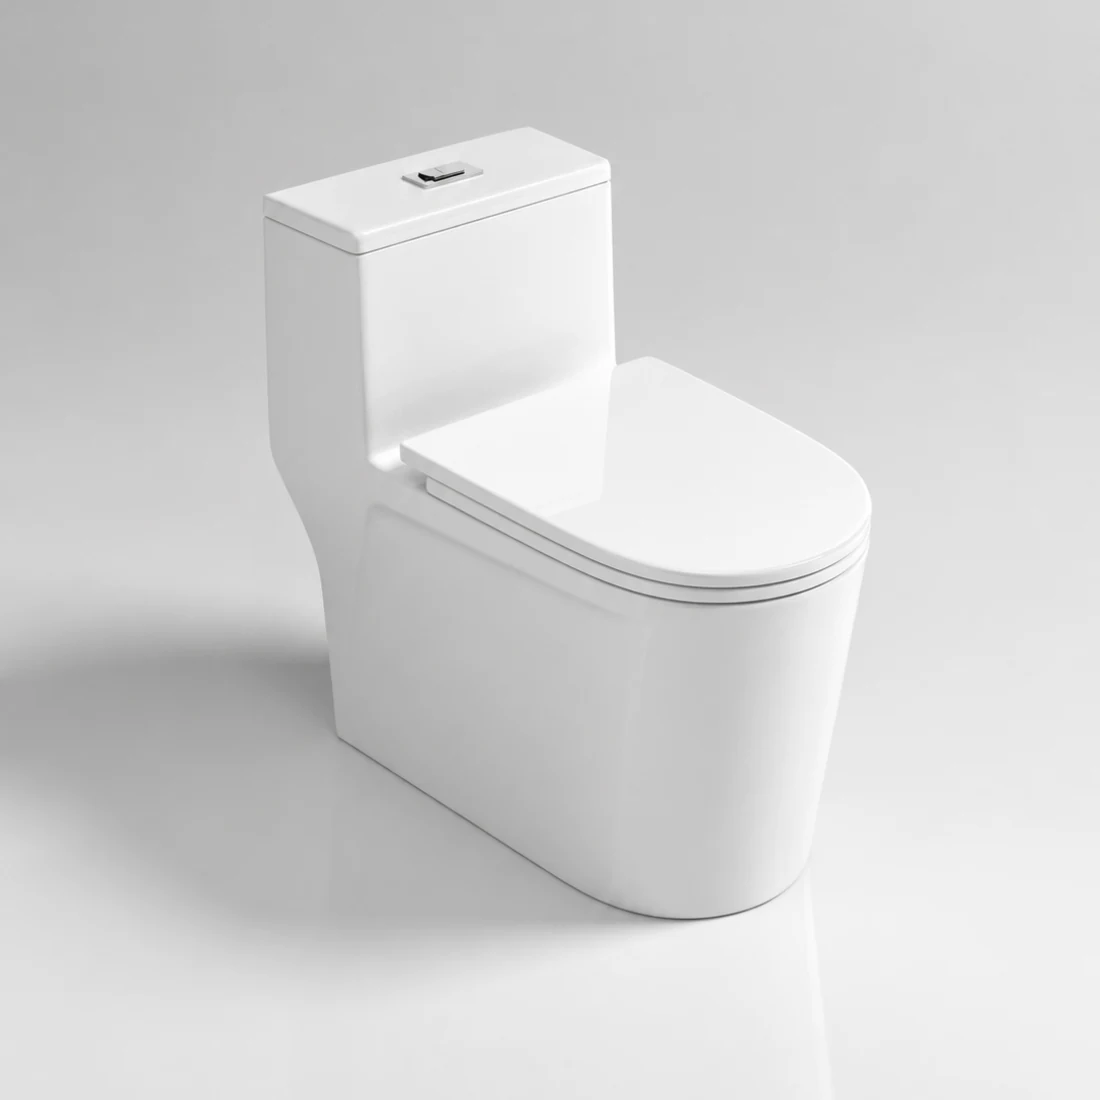
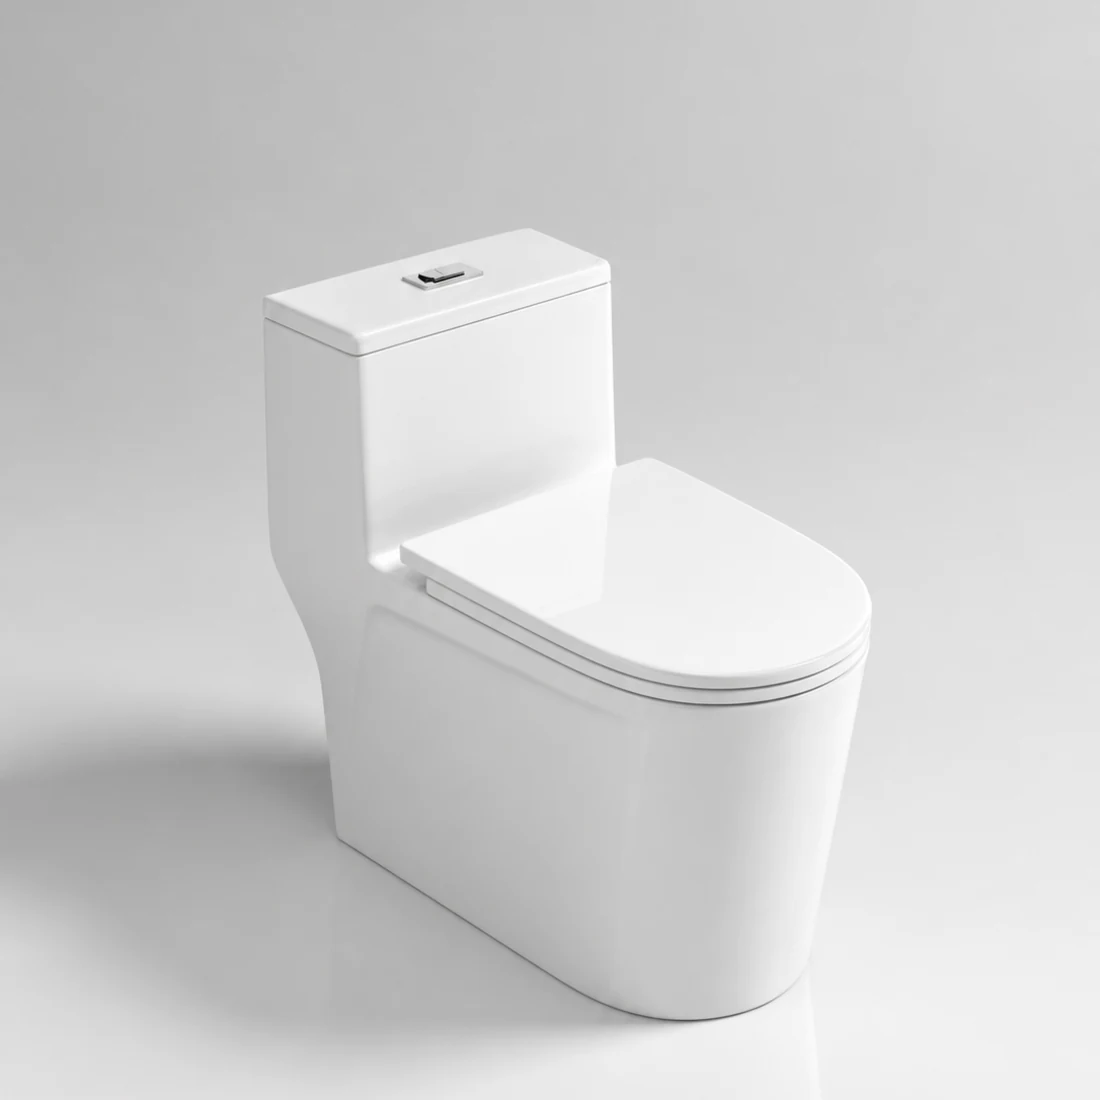
T201 card: more breathing room above (crop y=80)

diff --git a/products/index.html b/products/index.html
@@ -117,7 +117,7 @@ const CATS = {
     items:[{code:'PB101',name:'Classic Pillar',dims:'560 × 460 × 850',sub:'floor'},{code:'PB108',name:'Slim Column',dims:'520 × 440 × 840',sub:'floor'},{code:'PB115',name:'Atelier',dims:'600 × 480 × 850',sub:'floor'},{code:'PB122',name:'Forma',dims:'550 × 450 × 845',sub:'floor'},{code:'PB130',name:'Lirio',dims:'580 × 460 × 850',sub:'floor'},{code:'PB144',name:'Toro',dims:'610 × 470 × 855',sub:'floor'},{code:'PB158',name:'Mira Column',dims:'590 × 460 × 850',sub:'floor'},{code:'WB101',name:'Float Wall',dims:'500 × 420',sub:'wall'},{code:'WB103',name:'Linea Wall',dims:'550 × 440',sub:'wall'},{code:'WB105',name:'Plate Wall',dims:'600 × 460',sub:'wall'},{code:'WB107',name:'Edge Wall',dims:'480 × 380',sub:'wall'},{code:'WB108',name:'Crest Wall',dims:'520 × 400',sub:'wall'}]},
   standard: { title:'Toilet.', sub:['15 models · One-piece','Floor-mount · Dual flush','Antibacterial glaze · Soft-close seat'], icon:'toilet',
     tabs:[{id:'all',label:'All',count:15},{id:'open',label:'Open tank',count:12},{id:'concealed',label:'Concealed cistern',count:3}],
-    items:[{code:"T201",name:"T201 · Cascade siphon · curved one-piece",dims:"690 × 375 × 660 mm",sub:"open",img:'/assets/products/' + "T201" + '/card.webp?v=5'},{code:"T202",name:"T202 · Cascade vortex · narrow footprint",dims:"680 × 360 × 700 mm",sub:"open",img:'/assets/products/' + "T202" + '/card.webp'},{code:"T203",name:"T203 · Rimless · fully glazed bowl",dims:"660 × 370 × 700 mm",sub:"open",img:'/assets/products/' + "T203" + '/card.webp'},{code:"T204",name:"T204 · Concealed cistern · 650 mm low silhouette",dims:"700 × 365 × 650 mm",sub:"concealed",img:'/assets/products/' + "T204" + '/card.webp'},{code:"T205",name:"T205 · Concealed cistern · soft-shoulder body",dims:"700 × 365 × 650 mm",sub:"concealed",img:'/assets/products/' + "T205" + '/card.webp'},{code:"T206",name:"T206 · Concealed cistern · squared shoulder",dims:"680 × 370 × 700 mm",sub:"concealed",img:'/assets/products/' + "T206" + '/card.webp'},{code:"T207",name:"T207 · Sculpted body · 430 mm seat width",dims:"680 × 430 × 680 mm",sub:"open",img:'/assets/products/' + "T207" + '/card.webp'},{code:"T208",name:"T208 · Soft-square one-piece",dims:"700 × 370 × 720 mm",sub:"open",img:'/assets/products/' + "T208" + '/card.webp'},{code:"T209",name:"T209 · Tall tank · super siphon",dims:"680 × 365 × 750 mm",sub:"open",img:'/assets/products/' + "T209" + '/card.webp'},{code:"T210",name:"T210 · Wide stance · 380 mm seat height",dims:"700 × 395 × 710 mm",sub:"open",img:'/assets/products/' + "T210" + '/card.webp'},{code:"T211",name:"T211 · Tall tank · soft cylinder",dims:"680 × 365 × 750 mm",sub:"open",img:'/assets/products/' + "T211" + '/card.webp'},{code:"T212",name:"T212 · Tall tank · squared shoulder",dims:"680 × 365 × 750 mm",sub:"open",img:'/assets/products/' + "T212" + '/card.webp'},{code:"T213",name:"T213 · Tall tank · slim profile",dims:"680 × 365 × 750 mm",sub:"open",img:'/assets/products/' + "T213" + '/card.webp'},{code:"T214",name:"T214 · Tall tank · architectural",dims:"680 × 365 × 750 mm",sub:"open",img:'/assets/products/' + "T214" + '/card.webp'},{code:"T215",name:"T215 · Flagship 760 mm tank",dims:"680 × 365 × 760 mm",sub:"open",img:'/assets/products/' + "T215" + '/card.webp'}]},
+    items:[{code:"T201",name:"T201 · Cascade siphon · curved one-piece",dims:"690 × 375 × 660 mm",sub:"open",img:'/assets/products/' + "T201" + '/card.webp?v=6'},{code:"T202",name:"T202 · Cascade vortex · narrow footprint",dims:"680 × 360 × 700 mm",sub:"open",img:'/assets/products/' + "T202" + '/card.webp'},{code:"T203",name:"T203 · Rimless · fully glazed bowl",dims:"660 × 370 × 700 mm",sub:"open",img:'/assets/products/' + "T203" + '/card.webp'},{code:"T204",name:"T204 · Concealed cistern · 650 mm low silhouette",dims:"700 × 365 × 650 mm",sub:"concealed",img:'/assets/products/' + "T204" + '/card.webp'},{code:"T205",name:"T205 · Concealed cistern · soft-shoulder body",dims:"700 × 365 × 650 mm",sub:"concealed",img:'/assets/products/' + "T205" + '/card.webp'},{code:"T206",name:"T206 · Concealed cistern · squared shoulder",dims:"680 × 370 × 700 mm",sub:"concealed",img:'/assets/products/' + "T206" + '/card.webp'},{code:"T207",name:"T207 · Sculpted body · 430 mm seat width",dims:"680 × 430 × 680 mm",sub:"open",img:'/assets/products/' + "T207" + '/card.webp'},{code:"T208",name:"T208 · Soft-square one-piece",dims:"700 × 370 × 720 mm",sub:"open",img:'/assets/products/' + "T208" + '/card.webp'},{code:"T209",name:"T209 · Tall tank · super siphon",dims:"680 × 365 × 750 mm",sub:"open",img:'/assets/products/' + "T209" + '/card.webp'},{code:"T210",name:"T210 · Wide stance · 380 mm seat height",dims:"700 × 395 × 710 mm",sub:"open",img:'/assets/products/' + "T210" + '/card.webp'},{code:"T211",name:"T211 · Tall tank · soft cylinder",dims:"680 × 365 × 750 mm",sub:"open",img:'/assets/products/' + "T211" + '/card.webp'},{code:"T212",name:"T212 · Tall tank · squared shoulder",dims:"680 × 365 × 750 mm",sub:"open",img:'/assets/products/' + "T212" + '/card.webp'},{code:"T213",name:"T213 · Tall tank · slim profile",dims:"680 × 365 × 750 mm",sub:"open",img:'/assets/products/' + "T213" + '/card.webp'},{code:"T214",name:"T214 · Tall tank · architectural",dims:"680 × 365 × 750 mm",sub:"open",img:'/assets/products/' + "T214" + '/card.webp'},{code:"T215",name:"T215 · Flagship 760 mm tank",dims:"680 × 365 × 760 mm",sub:"open",img:'/assets/products/' + "T215" + '/card.webp'}]},
   smart: { title:'Smart Toilet.', sub:['New series','Heated seat · Auto flush'], icon:'smarttoilet',
     tabs:[{id:'all',label:'All',count:6},{id:'floor',label:'Floor',count:3},{id:'wall',label:'Wall-Hung',count:3}],
     items:[{code:'ST101',name:'Lumen Smart',dims:'720 × 400 × 480',sub:'floor'},{code:'ST108',name:'Volt Smart',dims:'700 × 390 × 470',sub:'floor'},{code:'ST115',name:'Aria Smart',dims:'710 × 395 × 475',sub:'floor'},{code:'SW201',name:'Float Smart',dims:'540 × 360 × 320',sub:'wall'},{code:'SW208',name:'Edge Smart',dims:'560 × 370 × 330',sub:'wall'},{code:'SW214',name:'Plate Smart',dims:'550 × 365 × 325',sub:'wall'}]},

diff --git a/zh/products/index.html b/zh/products/index.html
@@ -118,7 +118,7 @@ const CATS = {
     items:[{code:'PB101',name:'Classic Pillar',dims:'560 × 460 × 850',sub:'floor'},{code:'PB108',name:'Slim Column',dims:'520 × 440 × 840',sub:'floor'},{code:'PB115',name:'Atelier',dims:'600 × 480 × 850',sub:'floor'},{code:'PB122',name:'Forma',dims:'550 × 450 × 845',sub:'floor'},{code:'PB130',name:'Lirio',dims:'580 × 460 × 850',sub:'floor'},{code:'PB144',name:'Toro',dims:'610 × 470 × 855',sub:'floor'},{code:'PB158',name:'Mira Column',dims:'590 × 460 × 850',sub:'floor'},{code:'WB101',name:'Float Wall',dims:'500 × 420',sub:'wall'},{code:'WB103',name:'Linea Wall',dims:'550 × 440',sub:'wall'},{code:'WB105',name:'Plate Wall',dims:'600 × 460',sub:'wall'},{code:'WB107',name:'Edge Wall',dims:'480 × 380',sub:'wall'},{code:'WB108',name:'Crest Wall',dims:'520 × 400',sub:'wall'}]},
   standard: { title:'馬桶。', sub:['15 款式 · 連體','落地式 · 雙鈕沖水','抗菌釉面 · 緩降座圈'], icon:'toilet',
     tabs:[{id:'all',label:'全部',count:15},{id:'open',label:'外置水箱',count:12},{id:'concealed',label:'隱藏水箱',count:3}],
-    items:[{code:"T201",name:"T201 · 瀑布虹吸 · 弧線一體",dims:"690 × 375 × 660 mm",sub:"open",img:'/assets/products/' + "T201" + '/card.webp?v=5'},{code:"T202",name:"T202 · 瀑布超漩 · 窄底盤",dims:"680 × 360 × 700 mm",sub:"open",img:'/assets/products/' + "T202" + '/card.webp'},{code:"T203",name:"T203 · 無唇 · 全釉內壁",dims:"660 × 370 × 700 mm",sub:"open",img:'/assets/products/' + "T203" + '/card.webp'},{code:"T204",name:"T204 · 隱藏水箱 · 650mm 低姿態",dims:"700 × 365 × 650 mm",sub:"concealed",img:'/assets/products/' + "T204" + '/card.webp'},{code:"T205",name:"T205 · 隱藏水箱 · 軟肩身型",dims:"700 × 365 × 650 mm",sub:"concealed",img:'/assets/products/' + "T205" + '/card.webp'},{code:"T206",name:"T206 · 隱藏水箱 · 方肩",dims:"680 × 370 × 700 mm",sub:"concealed",img:'/assets/products/' + "T206" + '/card.webp'},{code:"T207",name:"T207 · 雕塑身型 · 430mm 寬座圈",dims:"680 × 430 × 680 mm",sub:"open",img:'/assets/products/' + "T207" + '/card.webp'},{code:"T208",name:"T208 · 軟方一體",dims:"700 × 370 × 720 mm",sub:"open",img:'/assets/products/' + "T208" + '/card.webp'},{code:"T209",name:"T209 · 高水箱 · 超漩虹吸",dims:"680 × 365 × 750 mm",sub:"open",img:'/assets/products/' + "T209" + '/card.webp'},{code:"T210",name:"T210 · 寬底盤 · 380mm 坐高",dims:"700 × 395 × 710 mm",sub:"open",img:'/assets/products/' + "T210" + '/card.webp'},{code:"T211",name:"T211 · 高水箱 · 軟柱身",dims:"680 × 365 × 750 mm",sub:"open",img:'/assets/products/' + "T211" + '/card.webp'},{code:"T212",name:"T212 · 高水箱 · 方肩",dims:"680 × 365 × 750 mm",sub:"open",img:'/assets/products/' + "T212" + '/card.webp'},{code:"T213",name:"T213 · 高水箱 · 修長",dims:"680 × 365 × 750 mm",sub:"open",img:'/assets/products/' + "T213" + '/card.webp'},{code:"T214",name:"T214 · 高水箱 · 建築感",dims:"680 × 365 × 750 mm",sub:"open",img:'/assets/products/' + "T214" + '/card.webp'},{code:"T215",name:"T215 · 旗艦 760mm 水箱",dims:"680 × 365 × 760 mm",sub:"open",img:'/assets/products/' + "T215" + '/card.webp'}]},
+    items:[{code:"T201",name:"T201 · 瀑布虹吸 · 弧線一體",dims:"690 × 375 × 660 mm",sub:"open",img:'/assets/products/' + "T201" + '/card.webp?v=6'},{code:"T202",name:"T202 · 瀑布超漩 · 窄底盤",dims:"680 × 360 × 700 mm",sub:"open",img:'/assets/products/' + "T202" + '/card.webp'},{code:"T203",name:"T203 · 無唇 · 全釉內壁",dims:"660 × 370 × 700 mm",sub:"open",img:'/assets/products/' + "T203" + '/card.webp'},{code:"T204",name:"T204 · 隱藏水箱 · 650mm 低姿態",dims:"700 × 365 × 650 mm",sub:"concealed",img:'/assets/products/' + "T204" + '/card.webp'},{code:"T205",name:"T205 · 隱藏水箱 · 軟肩身型",dims:"700 × 365 × 650 mm",sub:"concealed",img:'/assets/products/' + "T205" + '/card.webp'},{code:"T206",name:"T206 · 隱藏水箱 · 方肩",dims:"680 × 370 × 700 mm",sub:"concealed",img:'/assets/products/' + "T206" + '/card.webp'},{code:"T207",name:"T207 · 雕塑身型 · 430mm 寬座圈",dims:"680 × 430 × 680 mm",sub:"open",img:'/assets/products/' + "T207" + '/card.webp'},{code:"T208",name:"T208 · 軟方一體",dims:"700 × 370 × 720 mm",sub:"open",img:'/assets/products/' + "T208" + '/card.webp'},{code:"T209",name:"T209 · 高水箱 · 超漩虹吸",dims:"680 × 365 × 750 mm",sub:"open",img:'/assets/products/' + "T209" + '/card.webp'},{code:"T210",name:"T210 · 寬底盤 · 380mm 坐高",dims:"700 × 395 × 710 mm",sub:"open",img:'/assets/products/' + "T210" + '/card.webp'},{code:"T211",name:"T211 · 高水箱 · 軟柱身",dims:"680 × 365 × 750 mm",sub:"open",img:'/assets/products/' + "T211" + '/card.webp'},{code:"T212",name:"T212 · 高水箱 · 方肩",dims:"680 × 365 × 750 mm",sub:"open",img:'/assets/products/' + "T212" + '/card.webp'},{code:"T213",name:"T213 · 高水箱 · 修長",dims:"680 × 365 × 750 mm",sub:"open",img:'/assets/products/' + "T213" + '/card.webp'},{code:"T214",name:"T214 · 高水箱 · 建築感",dims:"680 × 365 × 750 mm",sub:"open",img:'/assets/products/' + "T214" + '/card.webp'},{code:"T215",name:"T215 · 旗艦 760mm 水箱",dims:"680 × 365 × 760 mm",sub:"open",img:'/assets/products/' + "T215" + '/card.webp'}]},
   smart: { title:'智能馬桶。', sub:['新系列','加熱坐圈 · 自動沖水'], icon:'smarttoilet',
     tabs:[{id:'all',label:'全部',count:6},{id:'floor',label:'落地',count:3},{id:'wall',label:'掛牆',count:3}],
     items:[{code:'ST101',name:'Lumen Smart',dims:'720 × 400 × 480',sub:'floor'},{code:'ST108',name:'Volt Smart',dims:'700 × 390 × 470',sub:'floor'},{code:'ST115',name:'Aria Smart',dims:'710 × 395 × 475',sub:'floor'},{code:'SW201',name:'Float Smart',dims:'540 × 360 × 320',sub:'wall'},{code:'SW208',name:'Edge Smart',dims:'560 × 370 × 330',sub:'wall'},{code:'SW214',name:'Plate Smart',dims:'550 × 365 × 325',sub:'wall'}]},